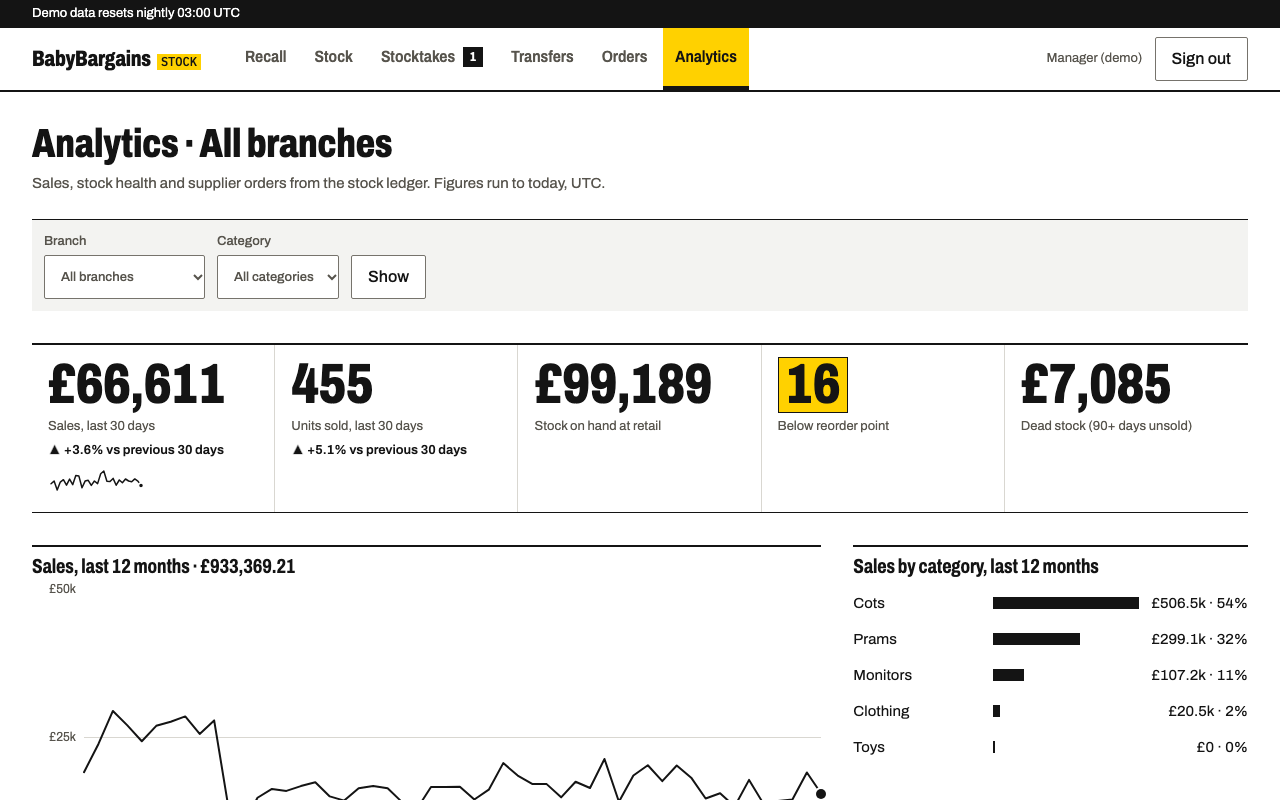
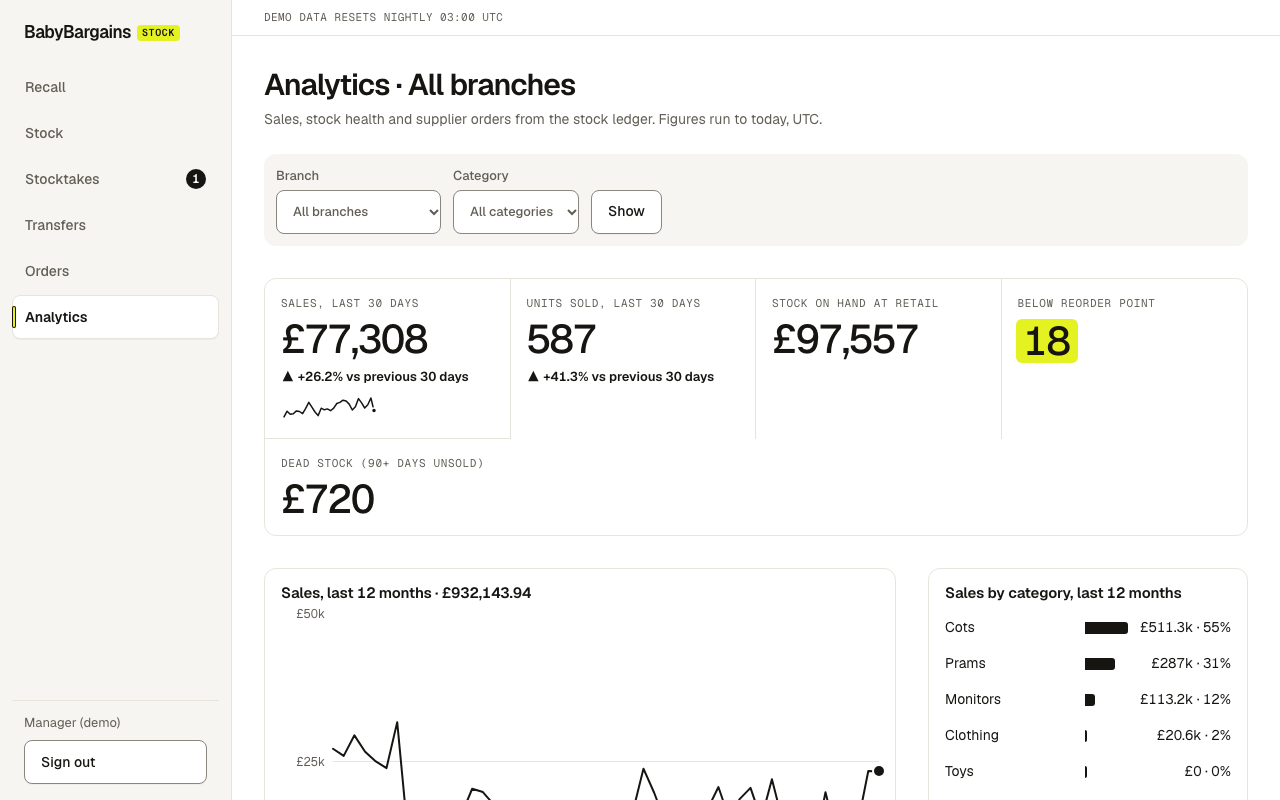
wip: Ledger design doc, README screens, wrapping table heads

diff --git a/src/app/globals.css b/src/app/globals.css
@@ -251,16 +251,14 @@ thead th {
   font-size: var(--text-label);
   letter-spacing: 0.06em;
   text-transform: uppercase;
-  white-space: nowrap;
   background: var(--color-surface-quiet);
   border-bottom: 0;
   padding-block: 10px;
 }
 
-/* Phones: caps headers may wrap and cells tighten, so tables stay inside the panel. */
+/* Phones: caps headers and cells tighten, so tables stay inside the panel. */
 @media (max-width: 767px) {
   thead th {
-    white-space: normal;
     letter-spacing: 0.02em;
   }
   th,

diff --git a/DESIGN.md b/DESIGN.md
@@ -1,66 +1,69 @@
 # Design system
 
-"Stock ticket": the app is printed like the shop's own paperwork (shelf-edge tickets, batch labels,
-count sheets). Ink on paper, ruled not boxed, and one ticket-yellow that only ever means "needs action"
-or "you are here". Research and the rejected directions: `~/.claude/research/babybargains-ui-rework.md`.
-Tokens live as CSS variables in `src/app/globals.css`.
+"Ledger": a finance-tool look for a stock ledger. White page, warm off-white blocks, hairline cells with
+soft corners, Geist for text and Geist Mono caps for labels, black buttons, and one lime that only ever
+means "needs action" or "you are here". The benchmark is Ramp's product system (calm, dense, figure-led),
+with Katana as the in-field reference for inventory screens. Tokens live as CSS variables in
+`src/app/globals.css`.
 
-## What we don't do (the template tells)
-No panels or cards on a grey canvas, no KPI tile row, no pill chips, no icons in tinted squares, no
-sidebar of line icons, no rounded-square logo, no gradients. Every screen has one starting point: the
-page title, then the figure or table that needs action.
+## What we don't do
+No gradients, no drop shadows on cells, no icons in tinted squares, no coloured KPI tiles, no second
+accent colour, no decorative illustration. Lime is never text and never a bare mark. Every screen has
+one starting point: the page title, then the figure or table that needs action.
 
 ## Type
-- Archivo variable (weight 100-900, width 62-125%), bundled in `src/app/fonts`.
-- Body and tables: width 100, 400/500, tabular figures everywhere.
-- Titles, section heads and headline figures: width 75, weight 800 (titles, figures) or 700 (sections).
-- Column headers and nav: width 87.5, weight 600, sentence case.
-- IBM Plex Mono for SKUs, batch codes and the "STOCK" wordmark tag only.
-- Scale: 13 meta · 15 table · 16 body · 20 section · 40 page title (32 phone) · 56 figure (44 phone).
+- Geist variable for everything read as text; Geist Mono for SKUs, batch codes, column heads, figure
+  labels and the "STOCK" wordmark tag. Both bundled in `src/app/fonts` (SIL OFL, `OFL-geist.txt`).
+- Titles 600 with -0.03em tracking; section heads 600; body 400/500; tabular figures everywhere.
+- Labels (`.label-caps`, `thead th`): mono, 11px, caps, 0.06em tracking, muted.
+- Scale: 11 label · 13 meta · 14 table · 15 body · 17 section · 30 page title (26 phone) ·
+  40 figure (30 phone).
 
 ## Colour
 | Token | Value | Use | Contrast |
 |---|---|---|---|
-| `--color-ink` (`--color-accent`) | #141414 | text, links, primary buttons, focus, chart marks | 18.42 on white, 16.58 on shelf |
-| `--color-ink-muted` | #57544D | context lines, meta, inactive nav | 7.55 / 6.80 |
-| `--color-ticket` | #FFD100 | fill only, always behind ink (12.61) | never text or a bare mark (1.46 on white) |
-| `--tint-accent` | #FFF4B8 | selected rows, current branch | ink 16.57 |
-| `--color-recall` | #B8141B | recall, destructive, stockouts, out-of-band bars, falling change | 6.66; white on it 6.66 |
-| `--color-warning` | #9C6B00 | past-view and kept-offline notices | 4.65 |
-| `--color-control-border` | #76736C | input and button borders | 4.73 |
-| `--color-chart-2` | #8A8781 | second chart series | 3.58 |
-| `--color-hairline` | #D9D7D1 | row rules (decorative) | — |
-| `--color-surface-quiet` | #F3F3F1 | shelf: table header strip, filter strip, login ground | — |
+| `--color-ink` (`--color-accent`) | #171512 | text, links, primary buttons, focus, chart marks | 18.22 on white, 16.70 on quiet |
+| `--color-ink-muted` | #625E56 | context lines, labels, inactive nav | 6.45 / 5.91 |
+| `--color-ticket` | #E4F222 | lime fill only, always behind ink (14.77) | never text or a bare mark (1.23 on white) |
+| `--tint-accent`, `--tint-warning` | #F6FBC9 | selected rows, current branch, notices | ink 16.97 |
+| `--color-recall` | #C0261D | recall, destructive, stockouts, out-of-band bars, falling change | 5.94 on white, 5.44 on quiet; white on it 5.94 |
+| `--tint-recall` | #FCEBE9 | error banner ground | recall on it 5.15 |
+| `--color-warning` | #8A5A00 | past-view and kept-offline notices | 5.93 on white, 5.52 on tint |
+| `--color-control-border`, `--color-chart-2` | #8A867D | input and button borders, second chart series | 3.63 on white, 3.33 on quiet |
+| `--color-hairline` | #E7E4DC | cell edges and row rules (decorative) | — |
+| `--color-surface-quiet`, `--color-canvas` | #F6F5F1 | sidebar, table header strip, filter strip, hover, login ground | — |
 
-Yellow discipline: the current nav item, the action figure (e.g. "16 below reorder point"), a low-stock
-ticket, the clerk's primary button, the wordmark tag. Nothing else. If it spreads it stops meaning anything.
+Lime discipline: the current nav marker, the action figure (e.g. "16 below reorder point"), a Low tag,
+the clerk's primary button, the wordmark tag, text selection. Nothing else. If it spreads it stops
+meaning anything.
 
 ## Structure
-- Sections open on a 2px ink rule with the condensed title under it (`h2` and `.panel` both do this);
-  content sits on the paper. No section has a border box. The one bordered object is the login's
-  batch label.
-- Tables: shelf header strip closed by a 1px ink rule, hairline rows, numbers right-aligned.
-- Status tickets (`.pill`): rectangles with a 2px radius. Neutral states are quiet outlines; "OK" shows
-  nothing. Low is ink on yellow with an ink edge; recalled/quarantined is white on recall red.
-- Figure strips (analytics, recall, stocktake summary): one ruled row, 2px ink above, 1px ink below,
-  hairlines between, big condensed figure over a muted label. Change is plain signed text
-  ("▲ +4.5% vs previous 30 days"), falling in recall red.
-- Radius: 2px on controls; 0 on sections. Shadows only on dialogs.
+- Cells (`.panel`): 1px hairline, 12px radius, 16px padding, content on white. Empty states are a dashed
+  cell on the quiet ground.
+- Tables: a quiet header strip with rounded ends and mono caps heads, hairline rows, numbers
+  right-aligned, a faint row hover. Heads wrap when a table runs out of room, so no table widens the page.
+- Status tags (`.pill`): 6px radius. Neutral states are quiet; "OK" shows nothing. Low is ink on lime;
+  recalled/quarantined is white on recall red.
+- Figure strips (analytics, recall, stocktake summary): one hairline cell split by hairlines, a mono
+  caps label over a 40px figure. Change is plain signed text ("▲ +4.5% vs previous 30 days"), falling
+  in recall red.
+- Radius: 8px on controls, 12px on cells. Shadows only on dialogs.
 - Analytics is asymmetric: the trend takes two thirds beside the category split; cover, age and ABC
   share a row of three.
 
-## Masthead (manager)
-An ink demo bar, then wordmark, text nav and sign out on one line, closed by a 2px ink rule. The current
-page is a yellow block with a 4px ink bar on the rule (`aria-current` names it). The Stocktakes count is
-a white figure in a small ink box. Phone: the nav scrolls sideways under the wordmark.
+## Sidebar (manager)
+A 232px sticky sidebar on the quiet ground: wordmark, text nav, then who is signed in and sign out at
+the bottom. The current page is a white block with a lime marker edged in ink (`aria-current` names it).
+The Stocktakes count is a white figure in a small ink badge. The demo notice is a mono caps line above
+the content. Below 1024px the sidebar becomes a top bar and the nav scrolls sideways under the wordmark.
 
 ## Clerk phone
-Same masthead language in a phone frame (2px ink edge on desktop). The primary button is ink on yellow,
-56px tall. Bottom tabs: 2px ink rule; the current tab has a 4px ink bar.
+The same language in a phone frame (hairline edge with a 28px radius on desktop, 440px wide). The
+primary button is ink on lime, 56px tall. Bottom tabs sit on a hairline; the current tab has an ink bar.
 
 ## Login
-Left: a printed batch label (B-4471 on a yellow tag, the claim at 72px condensed, numbered points, a
-decorative `aria-hidden` barcode). Right: the role choice as tear-off tickets (dashed top edge), no icons.
+Left, on the quiet ground: a mono caps line with B-4471 on a lime tag, the claim at 64px, and three
+numbered points in one hairline cell. Right: the role choice as two hairline cells, no icons.
 
 ## Motion
 One authored motion: the number strip counts to new values (150 ms ease-out). Hover transitions and the
@@ -70,7 +73,7 @@ skeleton shimmer sit inside `prefers-reduced-motion: no-preference`; with reduce
 4px base: 4 / 8 / 12 / 16 / 24 / 32 / 48.
 
 ## Components
-Table · SidePanel · Dialog (confirm, typed-confirm) · BottomSheet · Stepper · StatusPill (ticket) ·
+Table · SidePanel · Dialog (confirm, typed-confirm) · BottomSheet · Stepper · StatusPill (tag) ·
 Toast · Skeleton · Banner · Slider · Switch (native `role="switch"` checkbox in its label, 44px target).
 
 ## Charts
@@ -81,22 +84,21 @@ Hand-made server SVG and HTML in `src/components/charts/`, no chart library and 
   stays 1px in Chromium and WebKit and never widens the page.
 - Fixed heights: 320px for the sales trend, 180px for overview charts. An empty chart is one muted
   sentence at the same height.
-- Ink marks (18.42), square-ended bars, a 2px ink line with no area fill, an ink baseline and hairline
-  gridlines. Band washes are decorative; the band's 2px control-border edges carry 3:1.
-- Series that must be told apart never rely on hue: ink, `--color-chart-2` (3.58), a diagonal ink hatch,
-  then recall red for the oldest stock-age bucket. ABC uses the first three. Legend swatches carry a
-  1px ink edge.
+- Ink marks (18.22), a 2px ink line with no area fill, hairline gridlines. Band washes are decorative;
+  the band's control-border edges carry 3:1.
+- Series that must be told apart never rely on hue: ink, `--color-chart-2` (3.63), a diagonal ink hatch,
+  then recall red for the oldest stock-age bucket. ABC uses the first three.
 - Colour is never the only signal: change text carries an arrow and a sign; out-of-band cover bars are
   recall red and print "over" / "under".
 - Heatmap is the one fill exception: ink mixed with white in steps 6/20/36/54/100%, and every cell
-  prints its value, so the fill needn't reach 3:1. Ink on each step is 16.31 / 11.94 / 7.93 / 4.66;
-  the full step uses white text (18.42). Branch names collapse to codes on a phone.
+  prints its value, so the fill needn't reach 3:1. Ink on each step is 16.13 / 11.84 / 7.93 / 4.68;
+  the full step uses white text (18.22). Branch names collapse to codes on a phone.
 - Sparklines in the figure strip are `aria-hidden`; the change text states the trend. League
   sparklines are labelled with their 12 weekly values.
 
 ## Honest numbers
 Counted or recorded figures are solid. Estimated figures (FIFO-attributed sales, expected stock) use a
-dotted underline in text colour, a tooltip and screen-reader text "estimated".
+dotted underline in muted ink, a tooltip and screen-reader text "estimated".
 
 ## Copy
 Headings name the task or object with live context ("Recall · B-4471"). Utility language, no mood
@@ -104,4 +106,5 @@ copy, no exclamation marks.
 
 ## Accessibility
 44px minimum targets; visible labels; native `<dialog>` for focus trapping and Esc; slider keys
-←/→ one day, PgUp/PgDn one week, Home/End; polite live region for the number strip.
+←/→ one day, PgUp/PgDn one week, Home/End; polite live region for the number strip. Checked with no
+sideways page scroll at 320, 390, 800, 1024 and 1440 in Chromium and at 390 and 1280 in WebKit.

diff --git a/README.md b/README.md
@@ -16,16 +16,15 @@ https://github.com/user-attachments/assets/5eccb7cc-5c85-4c36-a254-5a649d3d87ee
 
 | | |
 |---|---|
-| ![Sign-in: a printed batch label and two tear-off role tickets](docs/screens/login.png) | ![Analytics: a ruled strip of headline figures, the 12-month trend and sales by category](docs/screens/analytics.png) |
-| ![Stock for one branch: low products first, each with an Order link](docs/screens/stock.png) | ![Clerk phone: counting stock, searching for cots](docs/screens/count-phone.png) |
+| ![Sign-in: the recall claim beside two role choices](docs/screens/login.png) | ![Analytics: a strip of headline figures, the 12-month trend and sales by category](docs/screens/analytics.png) |
+| ![Stock for one branch: low products first, each with an Order link](docs/screens/stock.png) | ![Clerk phone: starting a blind stocktake for one branch](docs/screens/count-phone.png) |
 
 ## Design
 
-The UI is set like the shop's own paperwork: shelf-edge tickets, batch labels and count sheets. It uses
-ink on white, sections opened by a ruled line instead of boxed cards, and condensed Archivo for titles and
-figures. One ticket yellow is kept for "needs action" or "you are here": the current page, the low-stock
-count, a Low ticket and the clerk's main button. Charts are hand-made server SVG with no chart library,
-and series never depend on hue alone. Tokens, contrast ratios and the rules are in [DESIGN.md](DESIGN.md).
+The UI is a calm finance-tool ledger: a white page, a quiet sidebar, hairline cells with soft corners,
+Geist for text and Geist Mono caps for labels. One lime is kept for "needs action" or "you are here": the
+current page, the low-stock count, a Low tag and the clerk's main button. Charts are hand-made server SVG with no chart library, and series never depend on
+hue alone. Tokens, contrast ratios and the rules are in [DESIGN.md](DESIGN.md).
 
 ## Why a ledger, not a counter
 
